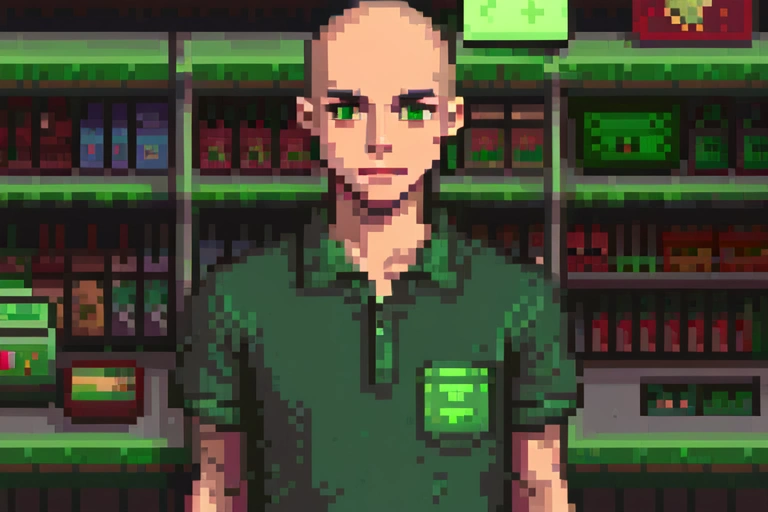
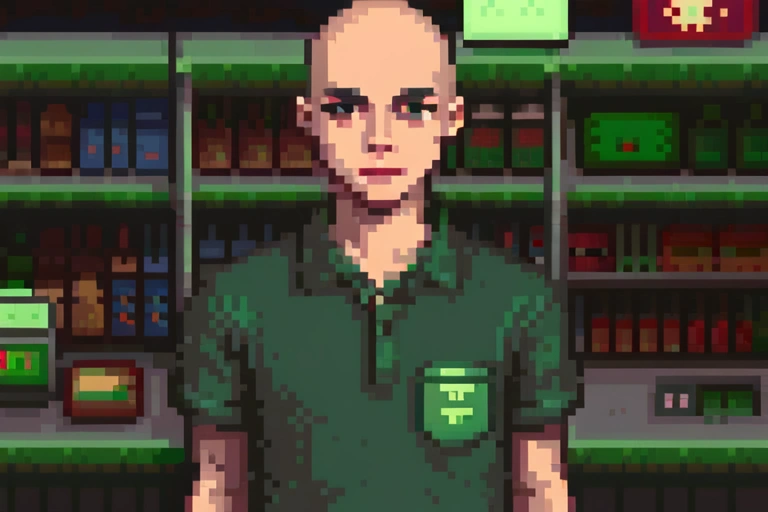
Vincent: refined grey-eyed portrait; guarded state is the same face, darker
Claude-Session: https://claude.ai/code/session_01N3XSPxGLPuAzHZPVpyahxE

diff --git a/tools/ai_art.py b/tools/ai_art.py
@@ -56,7 +56,7 @@ HORDE = {
         prompt=('pixel art, dark horror adventure game, 1boy, solo, young man, 28 years old, bald, shaved head, grey eyes, '
                 'light stubble, sad, looking down, arms crossed, dark green polo shirt, name tag, behind convenience store '
                 'counter, upper body, night, fluorescent ceiling light, shelves in background, ' + PIXEL_STYLE),
-        seed=11, gamma=1.45, sat=0.7),
+        seed=11, gamma=1.9, sat=0.45),
     'red': dict(
         prompt=('pixel art, dark horror adventure game, 1girl, solo, lying on stomach, face down, face not visible, long red '
                 'hair spread on the ground, dark coat, arm outstretched, wet asphalt, empty parking lot, night, car headlights '
